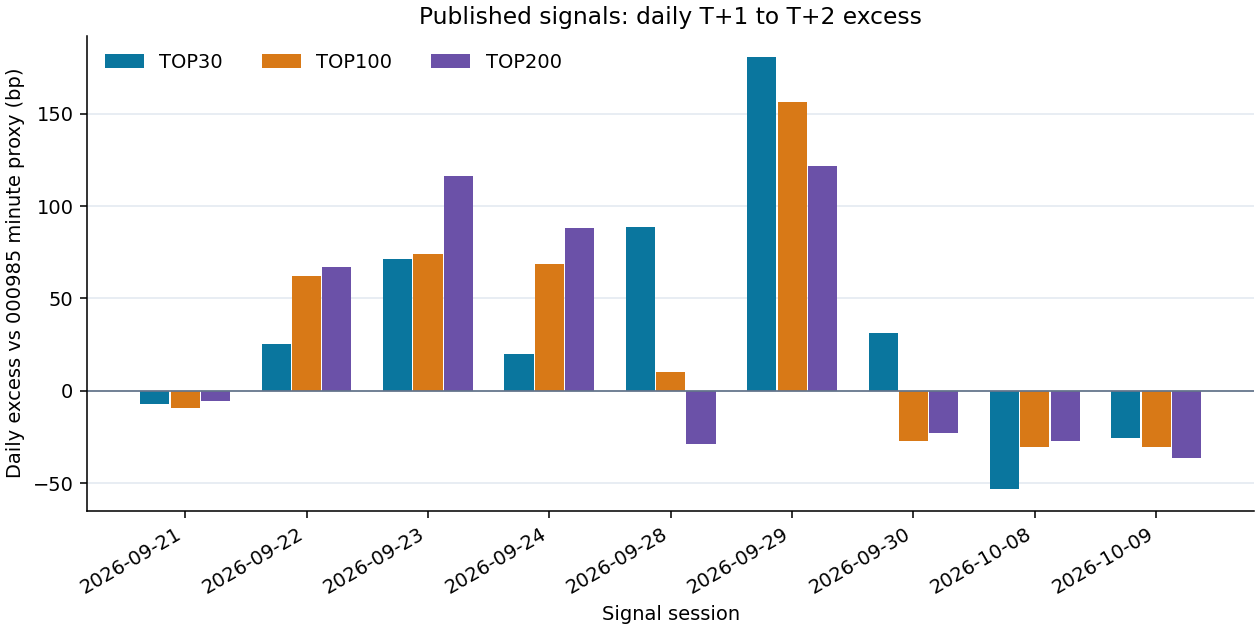
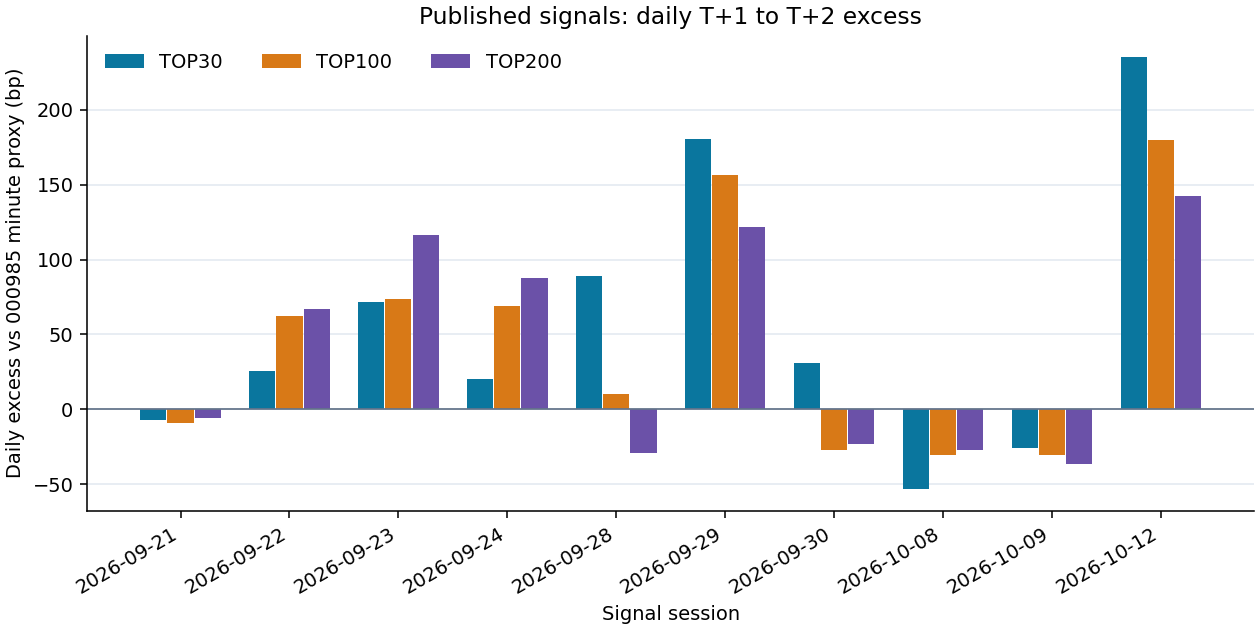
Update published signal performance through 2026-10-14

diff --git a/README.md b/README.md
@@ -17,13 +17,13 @@ CSV 编码为 UTF-8 BOM，按 `signal` 降序排列。
 <!-- PUBLIC_PERFORMANCE_START -->
 ## 已发布信号的历史表现
 
-仅统计本仓库 `signals/YYYY-MM-DD.csv` 已上传且买卖两日行情均完整的信号；截至 **2026-10-13**，共有 **9** 个已完成信号日，另有 **2** 个待结算或数据未齐。样本很短，暂无统计显著性结论。
+仅统计本仓库 `signals/YYYY-MM-DD.csv` 已上传且买卖两日行情均完整的信号；截至 **2026-10-14**，共有 **10** 个已完成信号日，另有 **2** 个待结算或数据未齐。样本很短，暂无统计显著性结论。
 
 | 组合 | 已完成信号日 | 组合累计收益 | 000985同期收益 | 累计超额 |
 |---|---:|---:|---:|---:|
-| TOP30 | 9 | -5.46% | -8.56% | +3.39% |
-| TOP100 | 9 | -6.00% | -8.56% | +2.80% |
-| TOP200 | 9 | -6.01% | -8.56% | +2.78% |
+| TOP30 | 10 | -3.01% | -8.34% | +5.81% |
+| TOP100 | 10 | -4.09% | -8.34% | +4.64% |
+| TOP200 | 10 | -4.45% | -8.34% | +4.24% |
 
 ![TOP30、TOP100、TOP200 累计超额净值](performance/excess_nav.png)
 
@@ -42,6 +42,7 @@ CSV 编码为 UTF-8 BOM，按 `signal` 降序排列。
 | 2026-09-30 | 2026-10-09 | +31.18 | -27.33 | -22.80 |
 | 2026-10-08 | 2026-10-12 | -53.19 | -30.43 | -27.09 |
 | 2026-10-09 | 2026-10-13 | -25.56 | -30.50 | -36.28 |
+| 2026-10-12 | 2026-10-14 | +235.12 | +180.05 | +142.29 |
 
 ![TOP30、TOP100、TOP200 逐日超额](performance/daily_excess.png)
 
